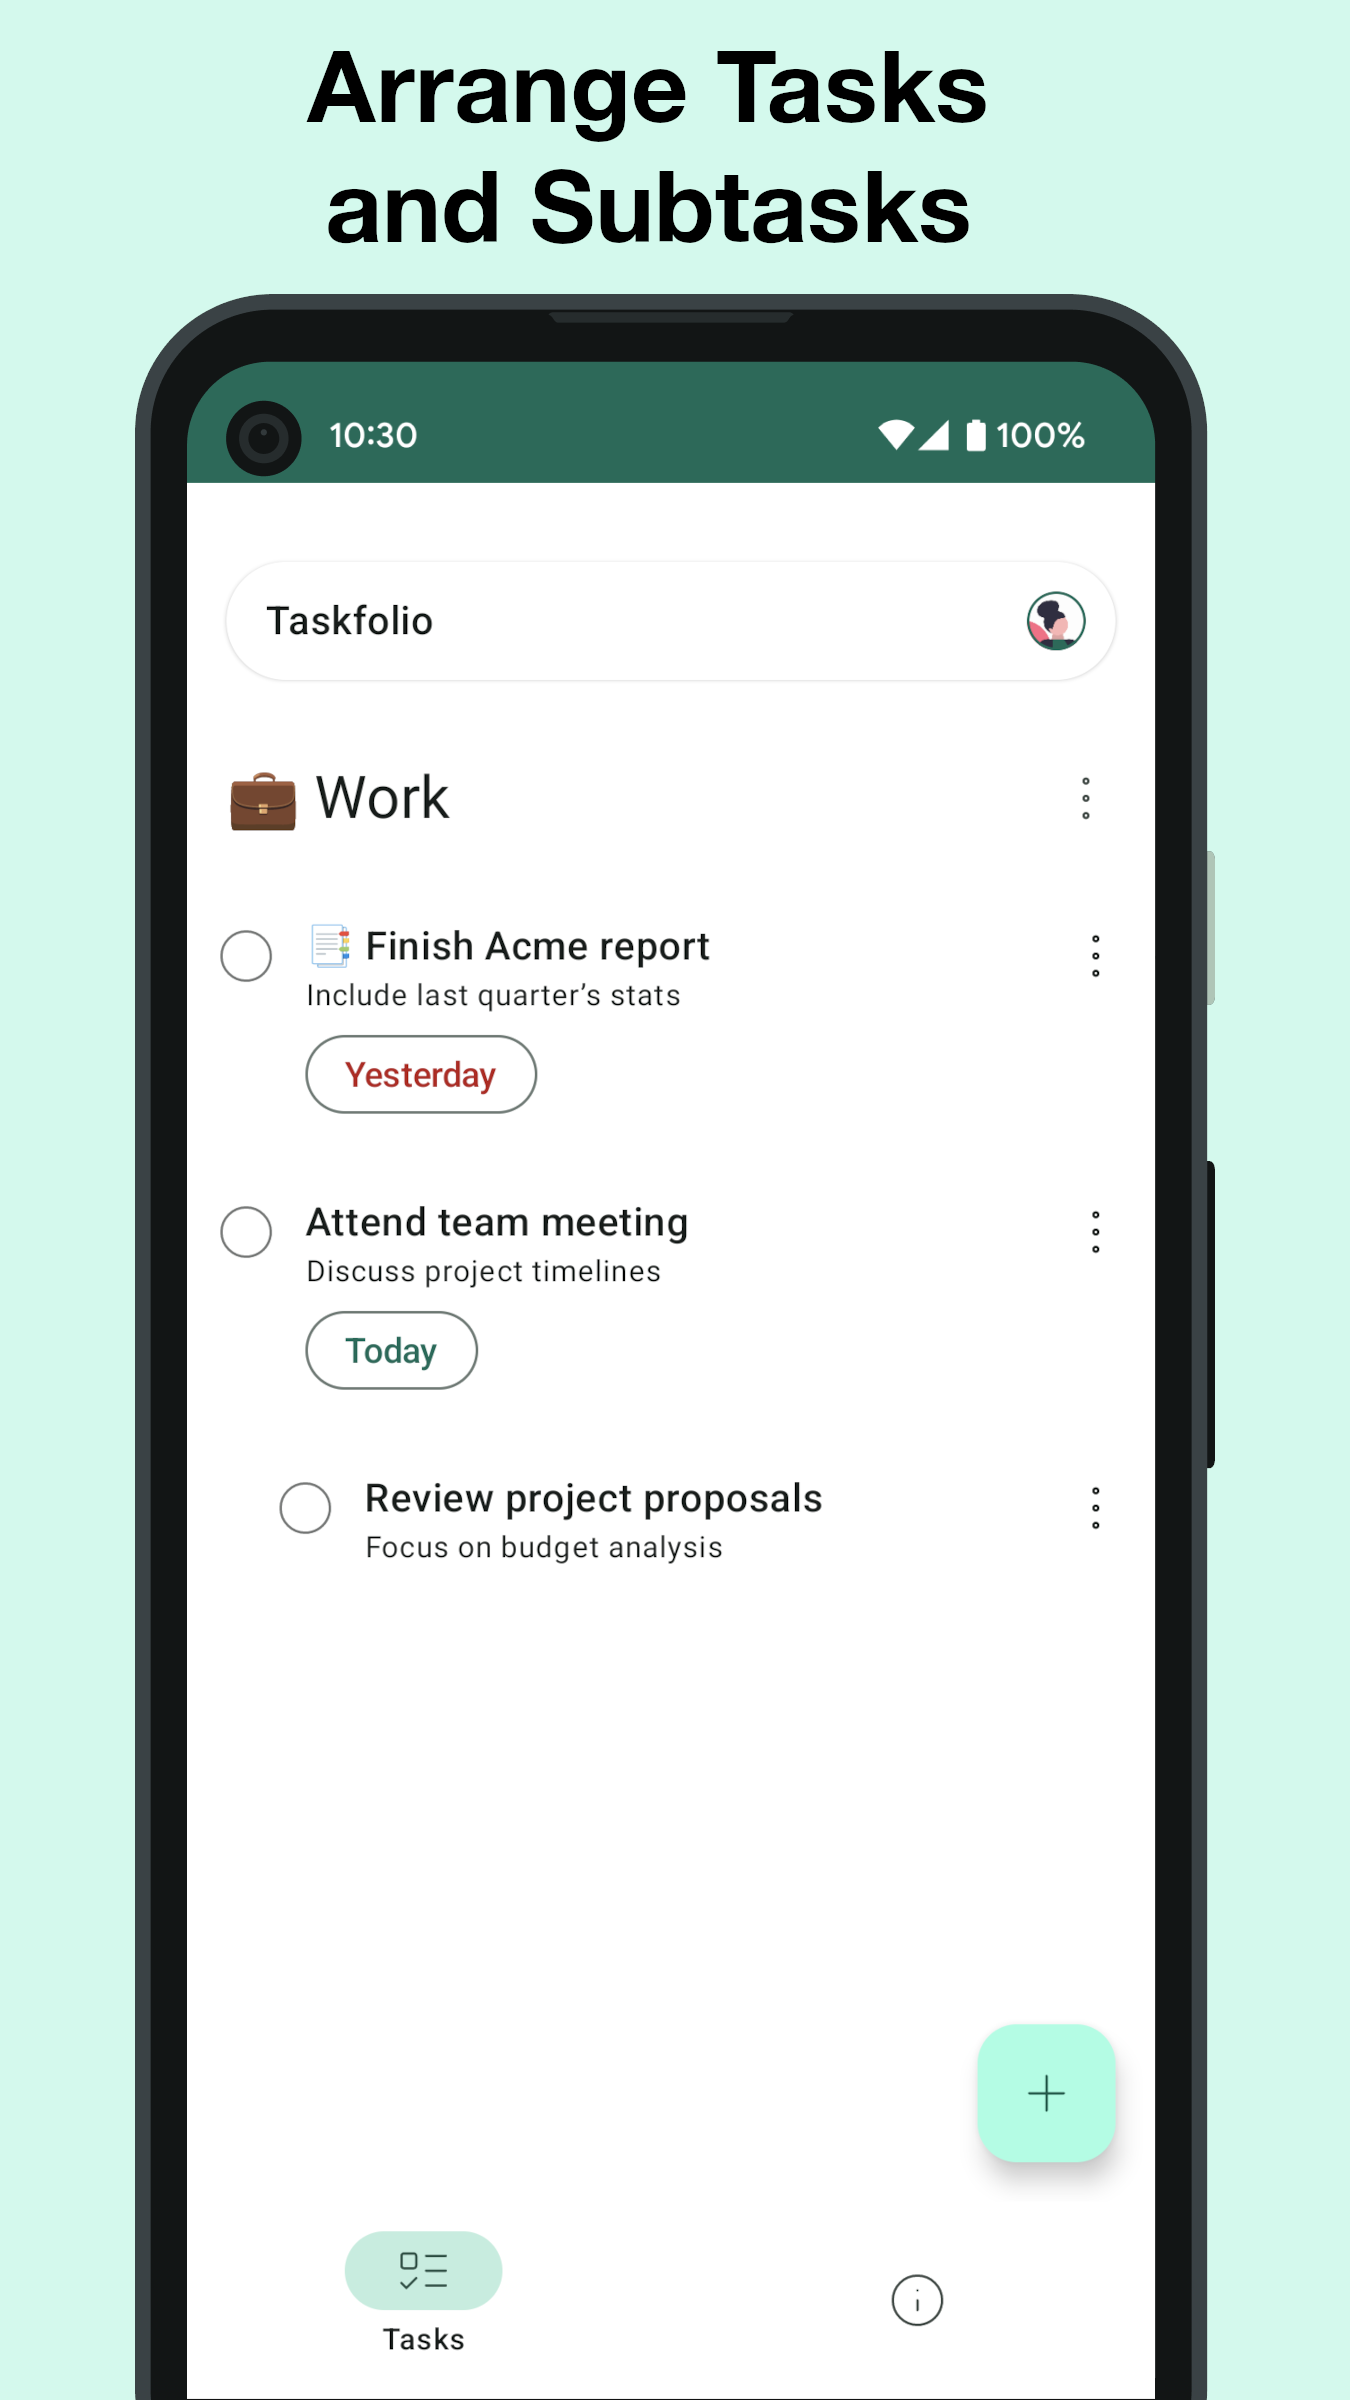
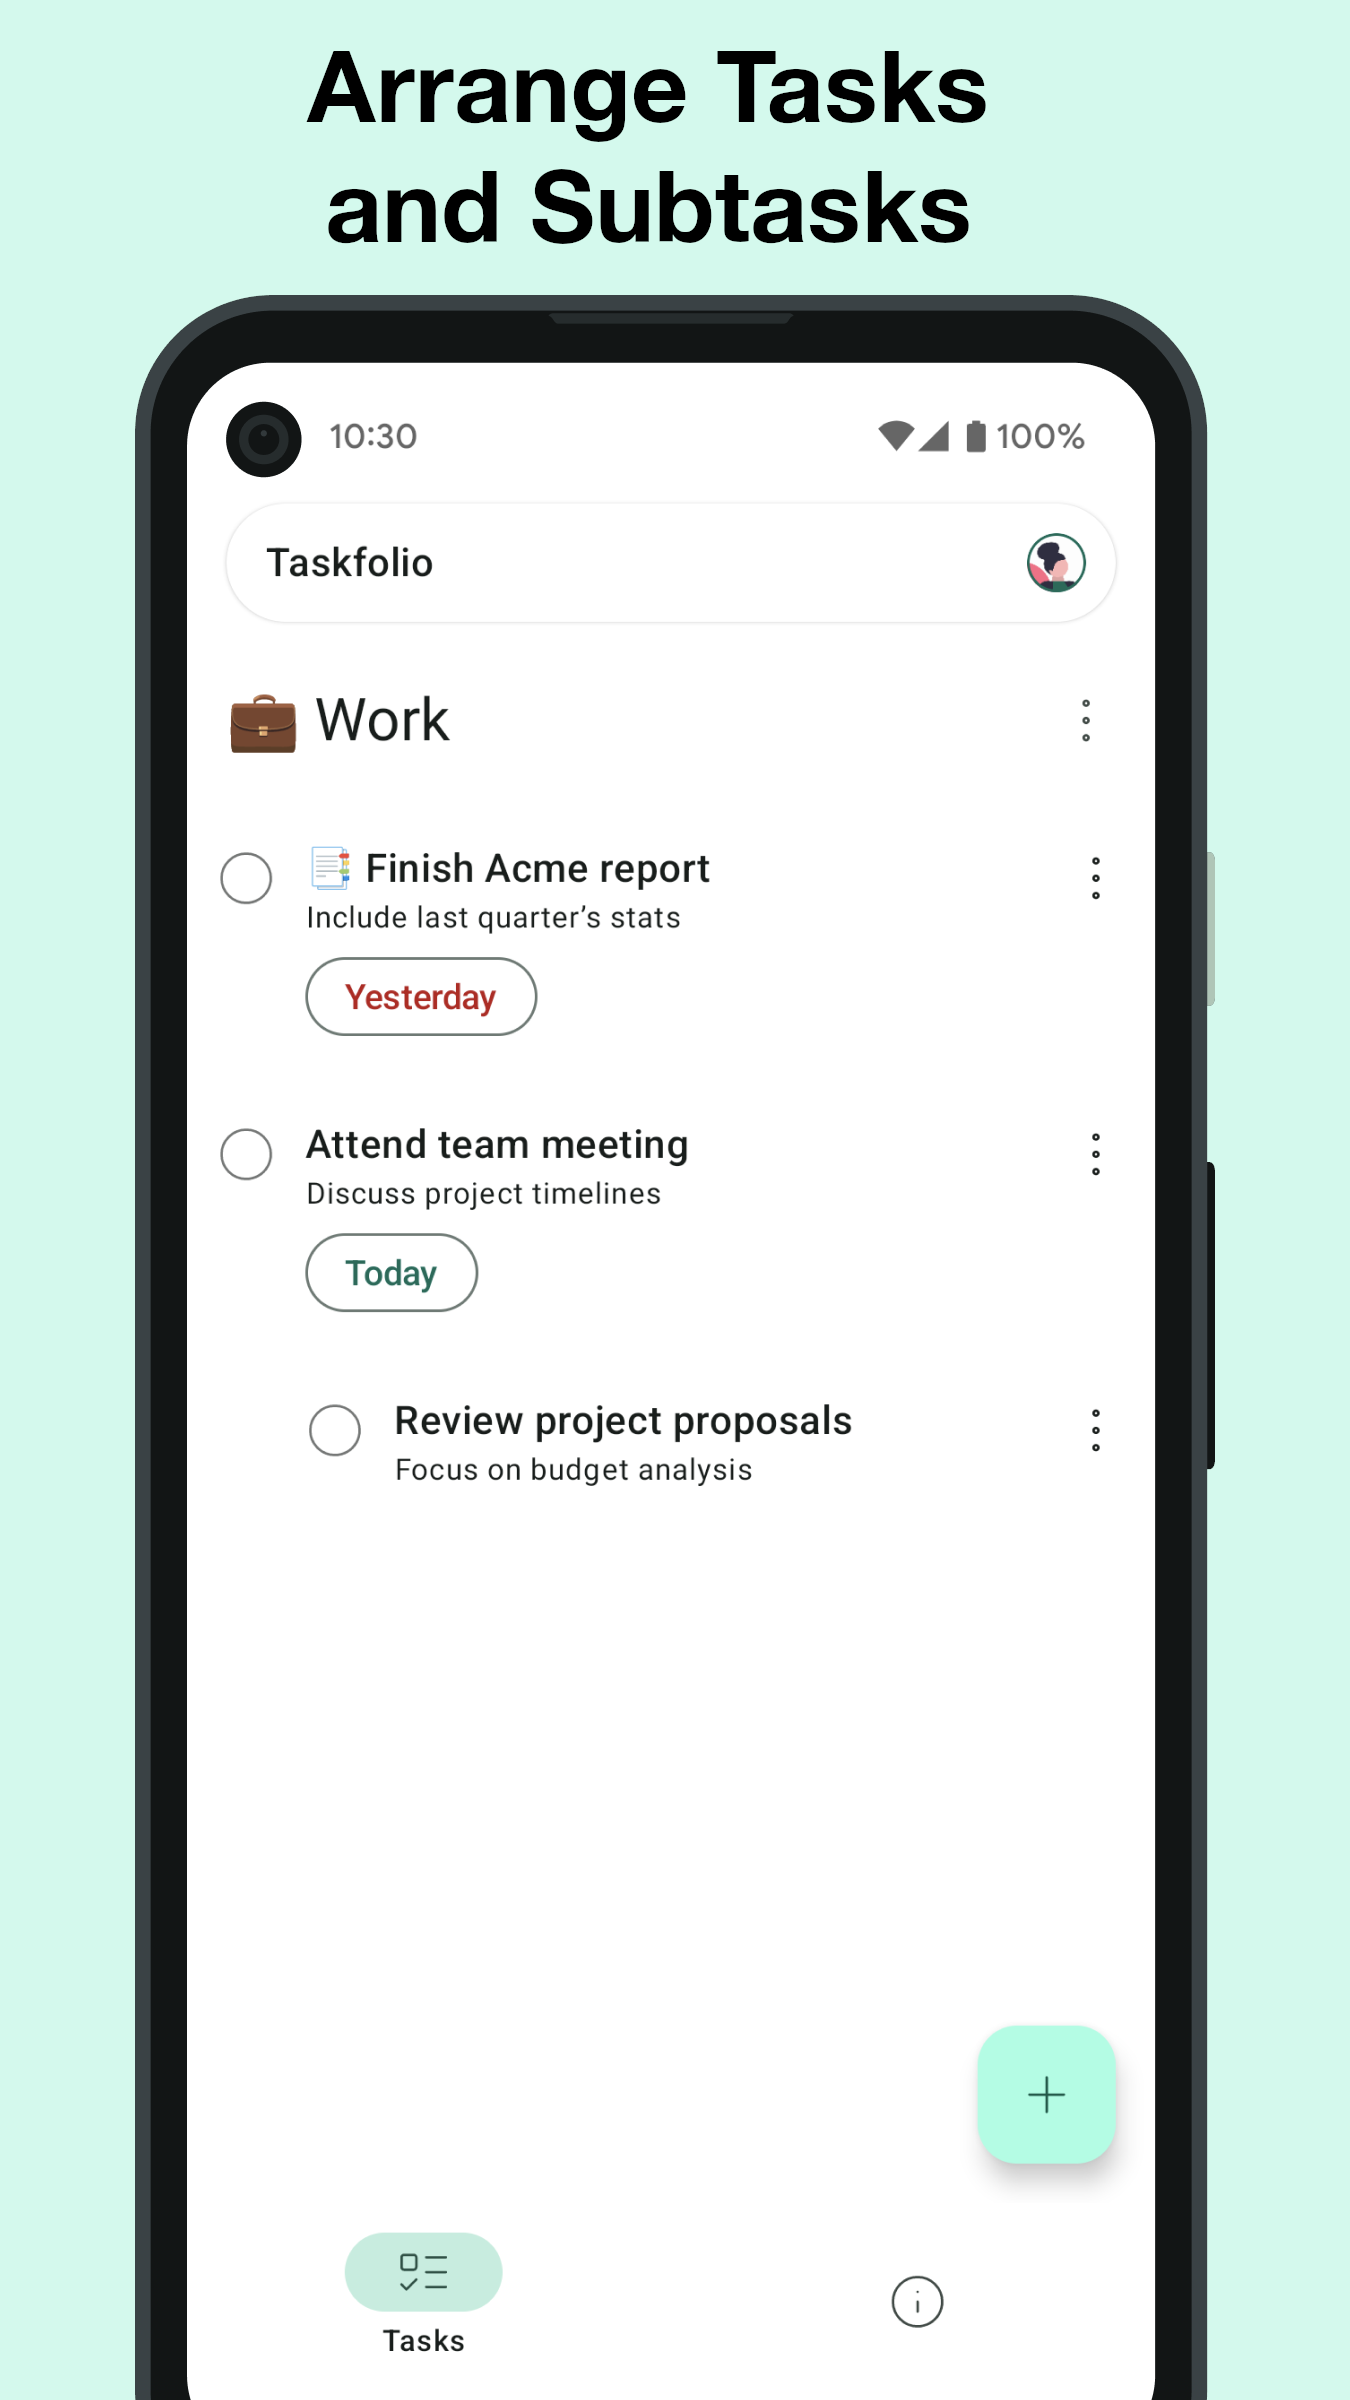
Update screenshots following recent UI adjustments (edge-to-edge in particular)

Changed region(s): [[0.1244, 0.125, 0.8711, 0.6562], [0.28, 0.9375, 0.3422, 1.0], [0.6533, 0.9375, 0.6844, 0.9688]]

diff --git a/README.md b/README.md
@@ -6,8 +6,8 @@
 
 > I set out to revisit the classical TODO app, ‘local-first’ syncing with Google Tasks—aiming for an <abbr title="Minimum Viable Experience">MVE</abbr> in 2 weeks, focusing on the 80/20 rule to nail the essentials.
 
-| ![](assets/screens/task_lists_light.png) | ![](assets/screens/groceries_light.png) | ![](assets/screens/home_dark.png)  |
-| --------------------------------------- |--------------------------------------- | ---------------------------------- |
+| ![](assets/screens/task_lists_light.png) | ![](assets/screens/groceries_light.png) | ![](assets/screens/add_task_light.png) | ![](assets/screens/home_dark.png)  |
+| --------------------------------------- |--------------------------------------- | ---------------------------------- | ---------------------------------- |
 
 [![Taskfolio on Play Store](assets/GetItOnGooglePlay_Badge_Web_color_English.png)](https://play.google.com/store/apps/details?id=net.opatry.tasks.app)
 

diff --git a/website/index.md b/website/index.md
@@ -16,7 +16,7 @@ and scalable Android apps.
 [![Taskfolio Android Application]({{ site.baseurl }}/assets/GetItOnGooglePlay_Badge_Web_color_English.png)](https://play.google.com/store/apps/details?id=net.opatry.tasks.app)
 
 | --------------------------------------- |--------------------------------------- |--------------------------------------- | ---------------------------------- |
-| ![]({{ site.baseurl }}/assets/screens/task_lists_light.png) | ![]({{ site.baseurl }}/assets/screens/groceries_light.png) | ![]({{ site.baseurl }}/assets/screens/my_tasks_light.png) | ![](assets/screens/home_dark.png)  |
+| ![]({{ site.baseurl }}/assets/screens/task_lists_light.png) | ![]({{ site.baseurl }}/assets/screens/groceries_light.png) | ![]({{ site.baseurl }}/assets/screens/add_task_light.png) | ![](assets/screens/home_dark.png)  |
 
 ## 🎯 Project intentions
 
